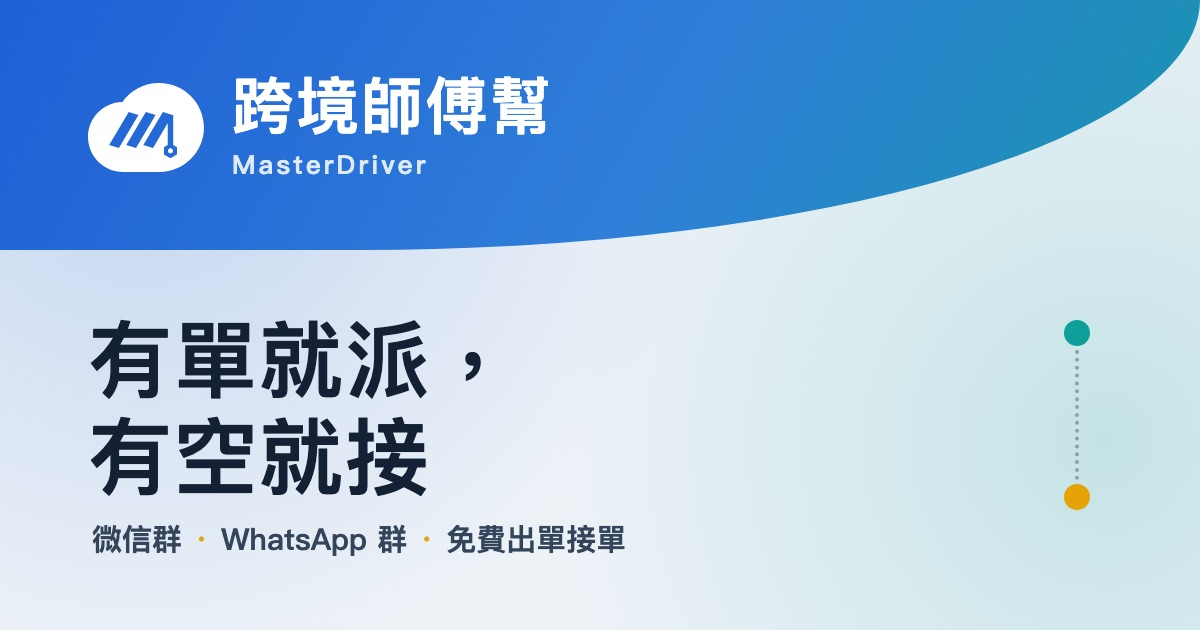
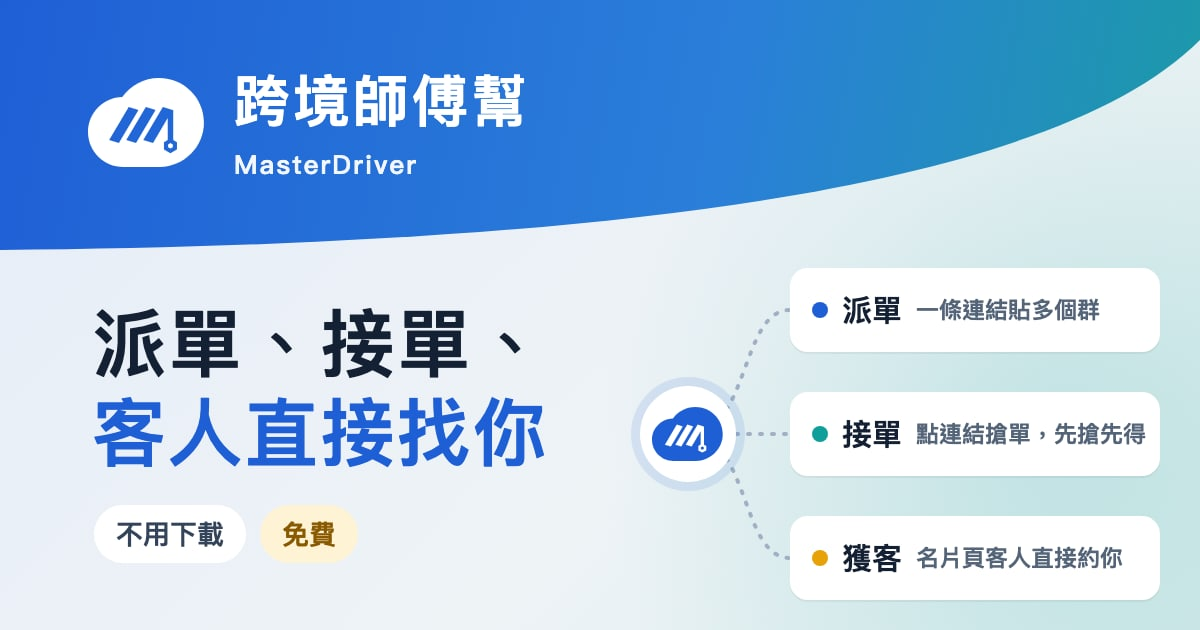
feat(web): the home page shares as 派單、接單、獲客, with new brand pictures
The home page's title and description, its default when SEO → 首頁 is empty, and the link
preview all say what the tool does: dispatch to many groups with one link, take orders first
come first served, and get customers through the 名片頁. The wide picture and the WeChat square
draw the three around the logo. The renderer's unused home square is gone.

diff --git a/backend/src/link-preview/preview-card.ts b/backend/src/link-preview/preview-card.ts
@@ -72,14 +72,13 @@ export interface PreviewMeta {
  * menu, which reads the tags every visitor gets) crops the middle of any picture to a thumbnail,
  * where the wide card would be a strip of photo (2026-10-15). It carries one thing, large: the
  * brand and the car whole (or the initial) for a driver; 為你安排的行程 for a confirmation link whose
- * dispatcher has someone else drive (A5, 2026-10-15); 有單 and when for a 搶單 link; the brand alone
- * for everything else.
+ * dispatcher has someone else drive (A5, 2026-10-15); 有單 and when for a 搶單 link. Every other
+ * link gets the static web/public/share-square.jpg (派單、接單、獲客 around the logo, 2026-10-15).
  */
 export type SquareData =
   | { kind: 'driver'; name: string; photo: string | null }
   | { kind: 'confirm' }
-  | { kind: 'order'; badge: string; when: string }
-  | { kind: 'home' };
+  | { kind: 'order'; badge: string; when: string };
 
 export const SQUARE = 600;
 /** The band at the top of a driver's square; the car photo fits inside the rest. */
@@ -321,17 +320,14 @@ export function squareSvg(square: SquareData): string {
       label(square.badge, SQUARE / 2, 302, 150, 900, '#171717', width),
       label(square.when, SQUARE / 2, 450, 64, 800, '#ffffff'),
     );
-  } else if (square.kind === 'confirm') {
-    // The logo as large as on the home square, then 為你安排 / 的行程 with 行程 in the gold of 有單:
+  } else {
+    // The logo large, then 為你安排 / 的行程 with 行程 in the gold of 有單:
     // the word a thumbnail still carries. No car: someone else drives it.
     body.push(
       mark(SQUARE / 2 - 98, 92, 4),
       label('為你安排', SQUARE / 2, 372, 108, 900, '#ffffff'),
       `<text x="${SQUARE / 2}" y="500" text-anchor="middle" font-family="${FONT}" font-size="108" font-weight="900" letter-spacing="${108 * 0.06}"><tspan fill="#ffffff">的</tspan><tspan fill="#f5c518">行程</tspan></text>`,
     );
-  } else {
-    // The mark and the name, nothing smaller.
-    body.push(mark((SQUARE - 260) / 2, 150, 260 / 49.1332), label('跨境師傅幫', SQUARE / 2, 470, 90, 900, '#ffffff'));
   }
   return [
     `<svg xmlns="http://www.w3.org/2000/svg" width="${SQUARE}" height="${SQUARE}" viewBox="0 0 ${SQUARE} ${SQUARE}">`,

diff --git a/web/index.html b/web/index.html
@@ -19,14 +19,14 @@
     <!--# block name="home_tags" -->
     <meta property="og:site_name" content="跨境師傅幫 MasterDriver" />
     <meta property="og:type" content="website" />
-    <meta property="og:title" content="跨境師傅幫｜跨境司機派單工具" />
-    <meta property="og:description" content="在微信群、WhatsApp 群出單、搶單，請乘客確認行程。不用下載，免費使用。" />
+    <meta property="og:title" content="MasterDriver 跨境師傅幫｜跨境司機派單、接單、獲客" />
+    <meta property="og:description" content="一條連結派單到多個群，司機搶單；名片頁讓客人直接約你。免費。" />
     <meta property="og:url" content="https://masterdriverapp.masterappinc.com/" />
     <meta property="og:image" content="https://masterdriverapp.masterappinc.com/share-square.jpg" />
     <meta property="og:image:width" content="600" />
     <meta property="og:image:height" content="600" />
     <meta name="twitter:card" content="summary" />
-    <meta name="description" content="在微信群、WhatsApp 群出單、搶單，請乘客確認行程。不用下載，免費使用。" />
+    <meta name="description" content="一條連結派單到多個群，司機搶單；名片頁讓客人直接約你。免費。" />
     <!--# endblock -->
     <!--# include virtual="/__link-tags/$link_path" stub="home_tags" -->
     <!-- The loading screen: shown before any code arrives, so a slow connection never shows a blank page. -->

diff --git a/web/src/pages/LandingPage.vue b/web/src/pages/LandingPage.vue
@@ -112,9 +112,11 @@ function replay() {
   play();
 }
 
+// Used while SEO → 首頁 in the platform admin is left empty: the same words as the share card
+// (web/index.html and the API's link preview), so a share from the open page says the same.
 usePageSeo('HOME', {
-  title: 'MasterDriver 跨境師傅幫｜有單就派，有空就接',
-  description: '跨境司機在微信群和 WhatsApp 群派單、搶單、請乘客確認的免費工具。不用換群，不用下載 App。',
+  title: 'MasterDriver 跨境師傅幫｜跨境司機派單、接單、獲客',
+  description: '一條連結派單到多個群，司機搶單；名片頁讓客人直接約你。免費。',
 });
 
 onBeforeUnmount(() => {

diff --git a/backend/src/link-preview/link-preview.service.ts b/backend/src/link-preview/link-preview.service.ts
@@ -26,8 +26,8 @@ const PLATE_KIND = { SINGLE: '單牌', DUAL: '兩地牌', TRIPLE: '三地牌' } 
  * whose tags every other page carries. Robots get the wide picture, a visitor's tags the square.
  */
 const HOME = {
-  title: '跨境師傅幫｜跨境司機派單工具',
-  description: '在微信群、WhatsApp 群出單、搶單，請乘客確認行程。不用下載，免費使用。',
+  title: 'MasterDriver 跨境師傅幫｜跨境司機派單、接單、獲客',
+  description: '一條連結派單到多個群，司機搶單；名片頁讓客人直接約你。免費。',
   image: '/share-card.jpg',
   square: '/share-square.jpg',
 };

diff --git a/backend/src/link-preview/link-preview.db-test.ts b/backend/src/link-preview/link-preview.db-test.ts
@@ -22,7 +22,7 @@ after(async () => {
   await ctx?.prisma.$disconnect();
 });
 
-const GENERIC = '跨境師傅幫｜跨境司機派單工具';
+const GENERIC = 'MasterDriver 跨境師傅幫｜跨境司機派單、接單、獲客';
 
 test('a published 名片頁 gets the driver’s own preview; unpublished, taken down or unknown gets the generic one', async () => {
   const owner = await createDriver(ctx, '陳師傅');

diff --git a/backend/src/link-preview/preview-card.test.ts b/backend/src/link-preview/preview-card.test.ts
@@ -107,7 +107,6 @@ test('each square renders to a 600 × 600 JPEG; a driver without a photo gets th
     { kind: 'driver' as const, name: '<李', photo: null },
     { kind: 'order' as const, badge: '有單', when: '10/16 02:57' },
     { kind: 'confirm' as const },
-    { kind: 'home' as const },
   ]) {
     const svg = squareSvg(square);
     assert.ok(!svg.includes('<李'));

diff --git a/docs/DESIGN.md b/docs/DESIGN.md
@@ -158,7 +158,7 @@ Master Travel 沒有對應的頁面（發單成功分享頁、空車廣播、名
 **原則：文字自己要能說清楚，預覽卡只是加上去的。** 不是所有地方都有預覽（微信聊天、預覽抓取失敗、截圖轉傳），所以出單者複製給乘客的確認文字、司機複製的名片頁文字一字不改；任何資訊都不能只放在圖上。
 
 - **字標：** `BrandMark` 以「跨境師傅幫」為主字、下方小字「MasterDriver」。司機看的頁面（首頁、登入、搶單頁）放大品牌；乘客看的頁面（乘客確認、詢價狀態、司機名片頁）主角是司機，平台只在底部一行小字「由 MasterDriver 跨境師傅幫提供」（README 紅線 6）。
-- **首頁與通用預覽：** 標題「跨境師傅幫｜跨境司機派單工具」，說明「在微信群、WhatsApp 群出單、搶單，請乘客確認行程。不用下載，免費使用。」`web/index.html` 的固定標籤用方形的 `web/public/share-square.jpg`（600×600，字標加「跨境師傅幫」），預覽程式打開首頁時 API 給寬版的 `share-card.jpg`（1200×630）。沒有自己預覽的連結都用這組，不含行程或乘客資料。
+- **首頁與通用預覽（2026-10-15 使用者選定）：** 標題「MasterDriver 跨境師傅幫｜跨境司機派單、接單、獲客」，說明「一條連結派單到多個群，司機搶單；名片頁讓客人直接約你。免費。」（微信卡片三行內）。後台「SEO → 首頁」沒填時首頁也用這組（`web/src/pages/LandingPage.vue`）。`web/index.html` 的固定標籤用方形的 `web/public/share-square.jpg`（600×600，F2：上方品牌色帶，中間標誌以虛線連到「派單」「接單」「獲客」三張白卡）；預覽程式打開首頁時 API 給寬版的 `share-card.jpg`（1200×630：左邊「派單、接單、／客人直接找你」與「不用下載」「免費」，右邊同樣以標誌連到三張卡：派單「一條連結貼多個群」、接單「點連結搶單，先搶先得」、獲客「名片頁客人直接約你」）。沒有自己預覽的連結都用這組，不含行程或乘客資料。
 - **司機自己的連結預覽（版面 A）：** 名片頁（`/p/`）與乘客確認（`/c/`）由 nginx 只把預覽程式（WhatsApp、Facebook、iMessage、Telegram、LINE 等）轉給 API 的 `/api/public/link-preview`（`deploy/frontend/web.conf`），一般人打開照舊拿靜態頁。卡片由伺服器畫（`backend/src/link-preview/`，`sharp` 加上 API 映像裡的 `fonts-noto-cjk`），採 **C 版（2026-10-15 使用者選定）**：左邊 560×630 是**固定的框**，鋪品牌藍綠漸層；中間 560×420 放**整張**車輛相片，照原比例完整放進、**不裁切**（司機上傳的相片大小不一、舊相片也沒經過 4:3 裁切，裁滿會切掉車頭車尾），沒有相片時放姓氏；框的上方色帶放白色字標「跨境師傅幫」，下方色帶放車牌所屬地標籤（「香港」金色、「澳門」「粵Z」「粵A」黑色，照真車牌樣式，**只有地區、不放號碼**）與「兩地牌・7座」。右邊在整張卡片的高度內垂直置中：「司機名片」、稱呼、車型與顏色與「會說○○」、介紹前兩行（淺灰底框）、「可用 WhatsApp／微信／電話」（只列司機有填的，不放號碼）與「已完成 N 張」（大於 0 才有）、滿寬的「點開直接約車，不用註冊」。**不放常走路線與服務地區**：名片頁 2026-10-14 起已拿掉這兩項，舊資料仍存在資料庫但不再公開，預覽與名片圖也不能帶出（2026-10-15 上線後發現並修正）。名片頁的標題照後台 SEO「司機名片頁」範本產生，{路線}{地區} 一律留空；預設為「○○｜跨境司機名片」，說明預設為「埃爾法・黑・兩地牌 7 座。點開直接約車，不用註冊。」（車型、顏色、牌照與座位，後台 SEO 有填說明時用後台的）。
   - **確認連結卡片（以出單者為主，2026-10-15 使用者確認）：** 出單者把單交給別人做，客人仍然是出單者的客人，所以卡片只講出單者：「為你安排的行程」、出單者稱呼、「已在師傅幫安排 N 趟」（他出單且已完成的單數，接駁算一趟，誰開都算）、「行程由○○負責，有問題請找○○」，出單者名片頁有公開時再加「下次用車，可直接在○○的名片頁約」，最後是「點開連結，確認時間與上車地點」。**不放常跑路線**（會被看成這趟的路線），不放時間、地點、價錢與乘客資料，**也完全不出現接單司機的姓名、車輛與電話**。出單者自己做這趟時才放他的車輛相片與車型；別人做或還沒人接時用姓氏版本，不放任何車（縮小後客人只會記得那台車，來的若是另一台反而失去信任）。乘客確認頁「聯絡為你安排的人」一區相應加上「看○○的名片頁，下次直接約」按鈕（出單者名片頁公開時才出現）。
   - **確認連結的文字：** 標題「李師傅為你安排的行程」，說明「點開確認時間與上車地點。行程由李師傅負責。」
